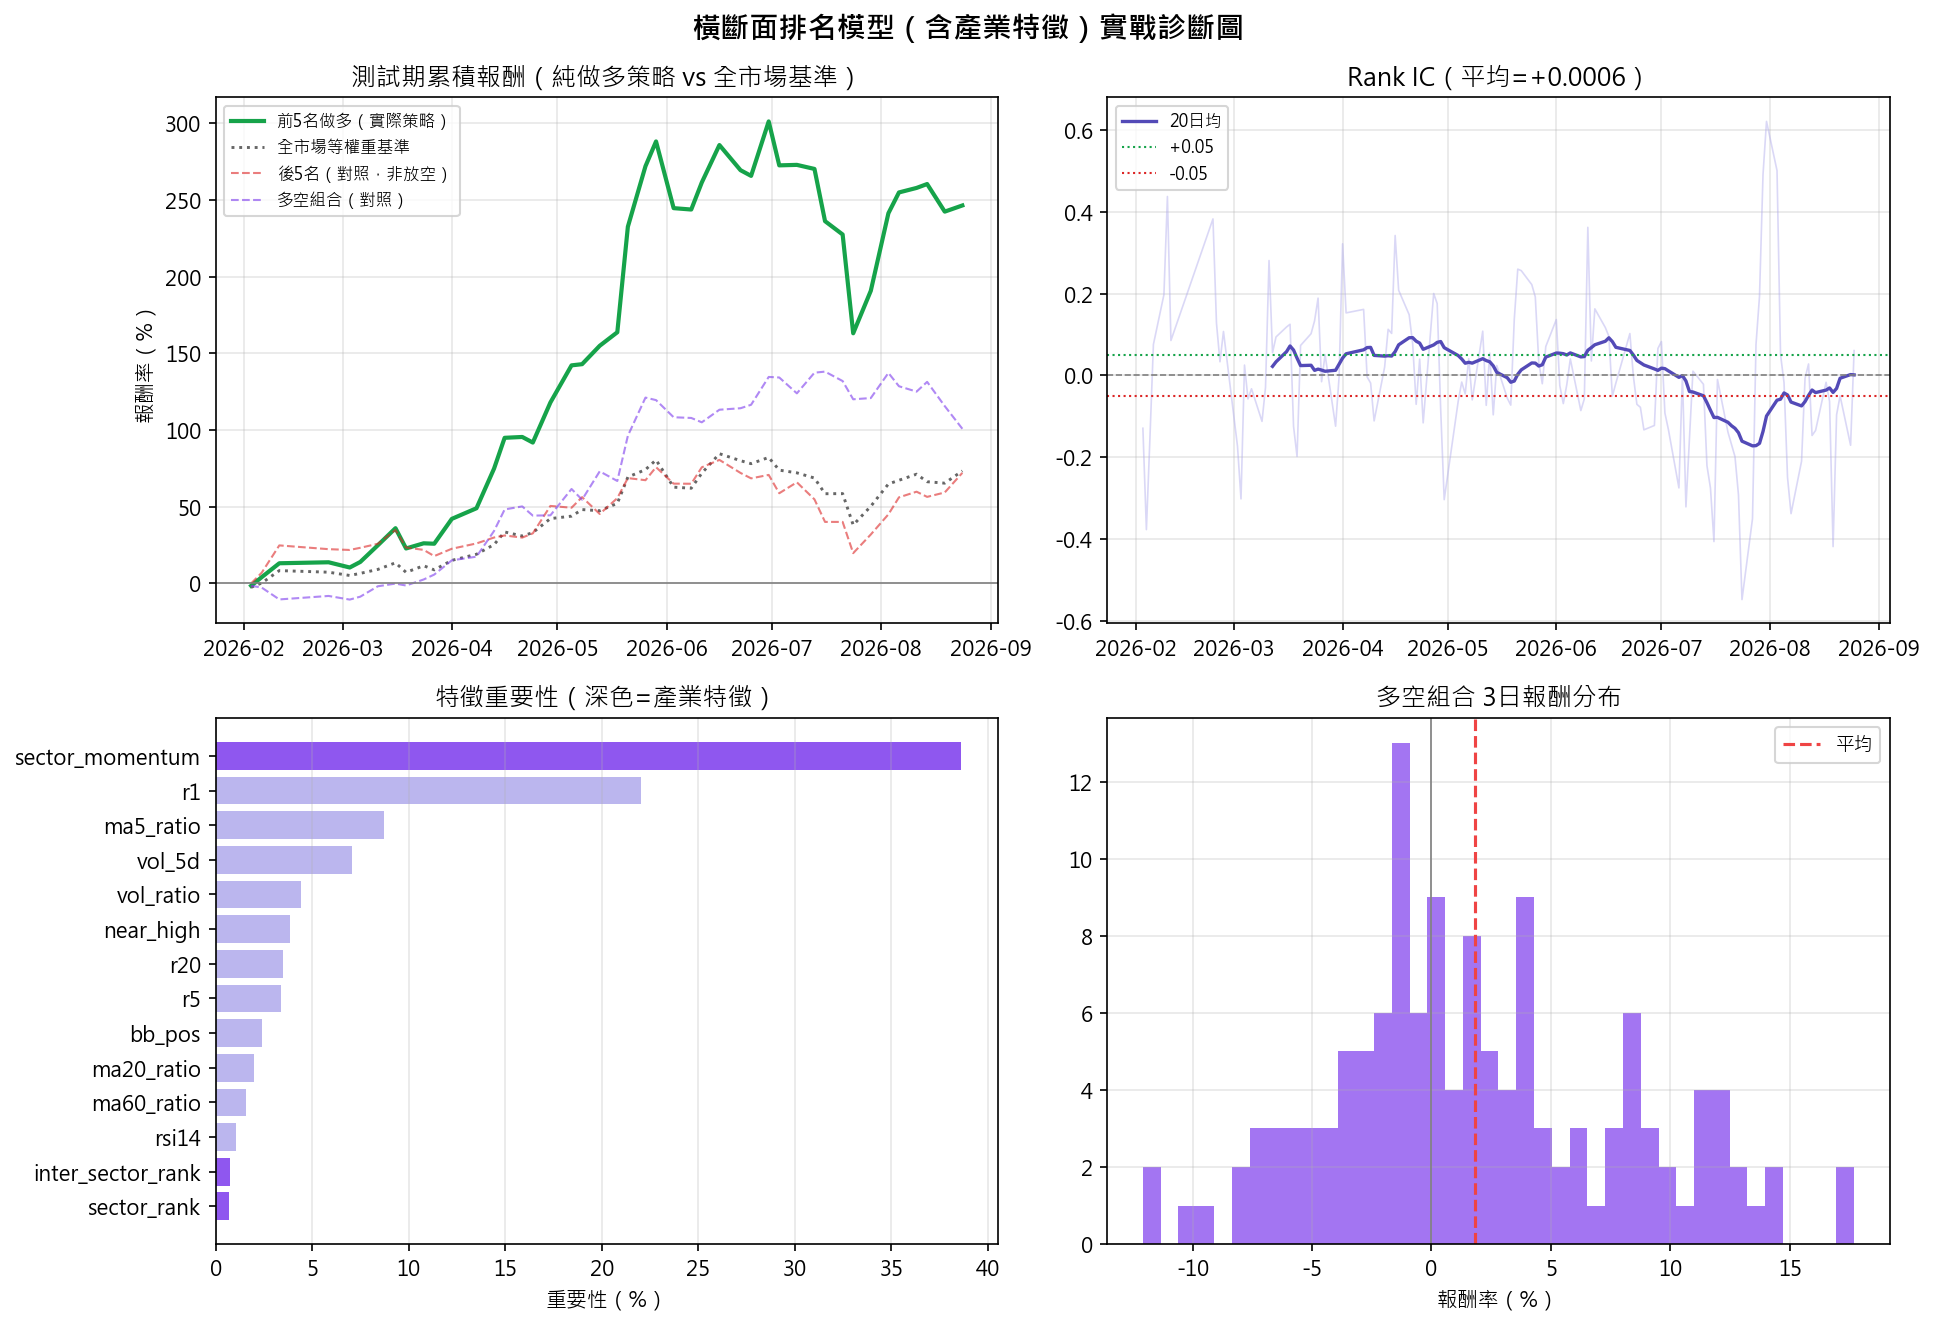
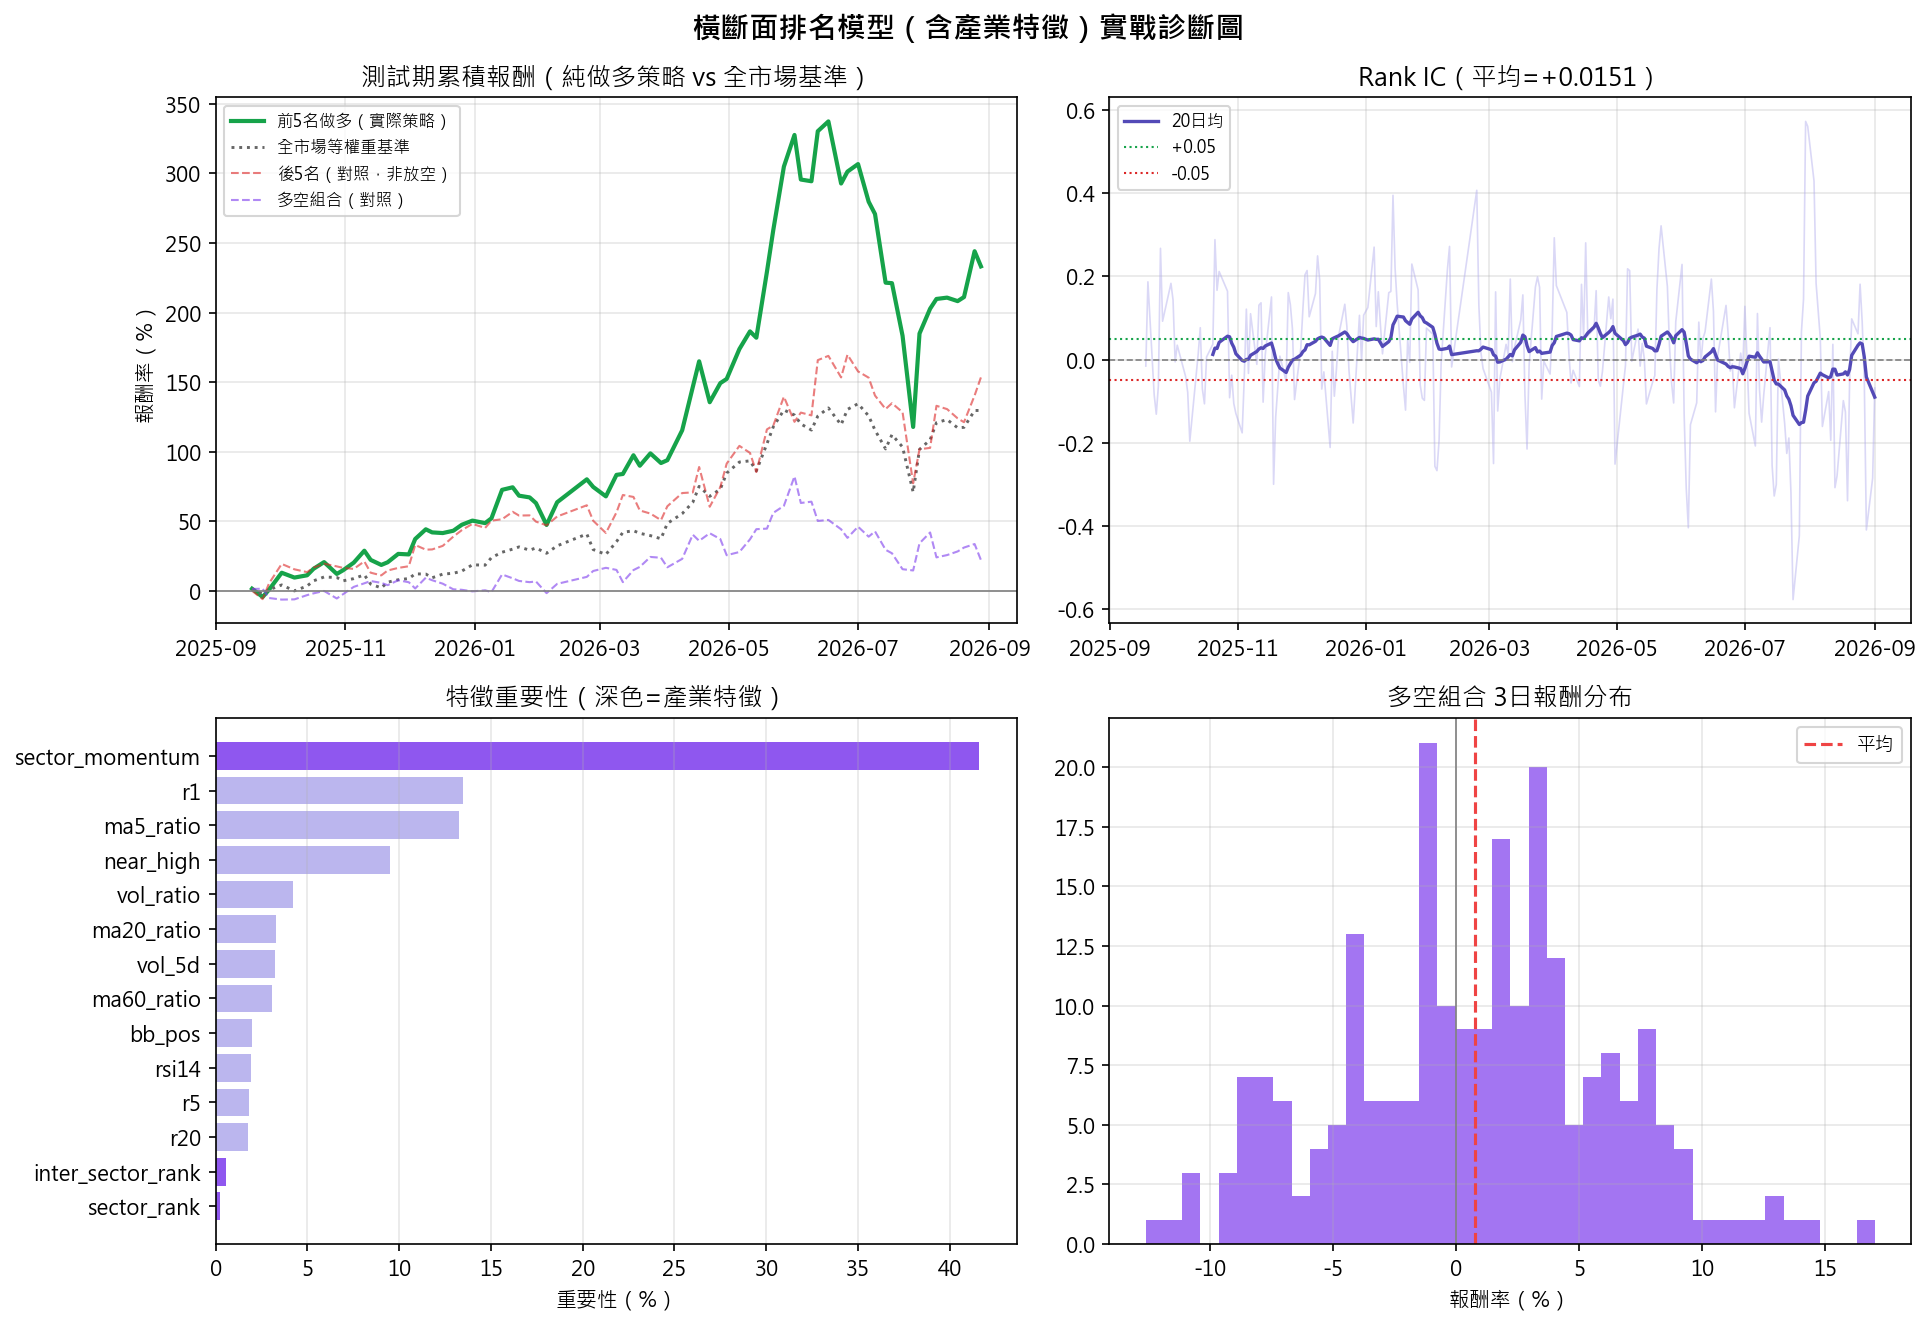
day28: 修正 period 不一致時的快取防呆邏輯;更新診斷圖

diff --git a/day28_sector_ranking.py b/day28_sector_ranking.py
@@ -177,31 +177,48 @@ def load_or_download_market_data(
     這樣才能保證同一次分析（甚至跨腳本、跨執行時間）用的是同一批資料，
     「視窗2」這種名稱才有意義，不會因為重新下載而悄悄變成不同的日期區間或股票池。
 
-    refresh=True 會強制重新下載並覆蓋快取。symbols 若跟快取裡記錄的不一致
-    （例如 watchlist.py 後來被更新過），只會印警告，不會自動刷新——
-    是否要用最新股票池重跑，交給使用者用 --refresh-cache 自己決定。
+    refresh=True 會強制重新下載並覆蓋快取。
+
+    symbols 若跟快取裡記錄的不一致（例如 watchlist.py 後來被更新過），只會印警告，
+    不會自動刷新——是否要用最新股票池重跑，交給使用者用 --refresh-cache 自己決定，
+    因為股票清單變動通常還是「同一段歷史，只是成分股不同」，繼續用舊快取不會產生
+    誤導性的結果，只是不夠新。
+
+    period 若跟快取裡記錄的不一致，行為不一樣：**會自動視同需要重新下載**，
+    不會靜默沿用舊快取。原因是 period 差異是正確性問題，不只是新舊問題——
+    如果快取是用 period="3y" 建的，使用者卻要求 period="5y"，繼續回傳舊快取
+    等於悄悄少給了2年歷史，而且完全沒有任何提示，這比股票清單過舊嚴重得多。
     """
     if not refresh and cache_path.exists():
         with open(cache_path, "rb") as f:
             cache = pickle.load(f)
-        print(
-            f"讀取資料快取：{cache_path.name}"
-            f"（下載於 {cache['downloaded_at']}，"
-            f"涵蓋 {len(cache['prices'].columns)} 檔股票、{len(cache['prices'])} 個交易日）"
-        )
-        cached_symbols  = set(cache["symbols"])
-        current_symbols = set(symbols)
-        if cached_symbols != current_symbols:
-            added   = sorted(current_symbols - cached_symbols)
-            removed = sorted(cached_symbols - current_symbols)
-            print("⚠ 目前 watchlist.py 的股票清單跟快取不一致：")
-            if added:
-                print(f"　新增：{added}")
-            if removed:
-                print(f"　移除：{removed}")
-            print("　（這次分析仍會用快取裡的舊資料，確保跟其他腳本的結果可以互相比較；"
-                  "如果要反映最新股票池，請加 --refresh-cache 重新下載）")
-        return cache["prices"], cache["volumes"]
+
+        cached_period = cache.get("period")
+        if cached_period != period:
+            print(
+                f"⚠ 快取（{cache_path.name}）是用 period={cached_period!r} 下載的，"
+                f"跟這次要求的 period={period!r} 不同——快取涵蓋的歷史長度可能不夠，"
+                f"視同快取未命中，重新下載..."
+            )
+        else:
+            print(
+                f"讀取資料快取：{cache_path.name}"
+                f"（下載於 {cache['downloaded_at']}，"
+                f"涵蓋 {len(cache['prices'].columns)} 檔股票、{len(cache['prices'])} 個交易日）"
+            )
+            cached_symbols  = set(cache["symbols"])
+            current_symbols = set(symbols)
+            if cached_symbols != current_symbols:
+                added   = sorted(current_symbols - cached_symbols)
+                removed = sorted(cached_symbols - current_symbols)
+                print("⚠ 目前 watchlist.py 的股票清單跟快取不一致：")
+                if added:
+                    print(f"　新增：{added}")
+                if removed:
+                    print(f"　移除：{removed}")
+                print("　（這次分析仍會用快取裡的舊資料，確保跟其他腳本的結果可以互相比較；"
+                      "如果要反映最新股票池，請加 --refresh-cache 重新下載）")
+            return cache["prices"], cache["volumes"]
 
     print("（快取不存在或要求強制更新，重新下載...）" if not cache_path.exists() or refresh else "")
     prices, volumes = download_market_data(symbols, period)
